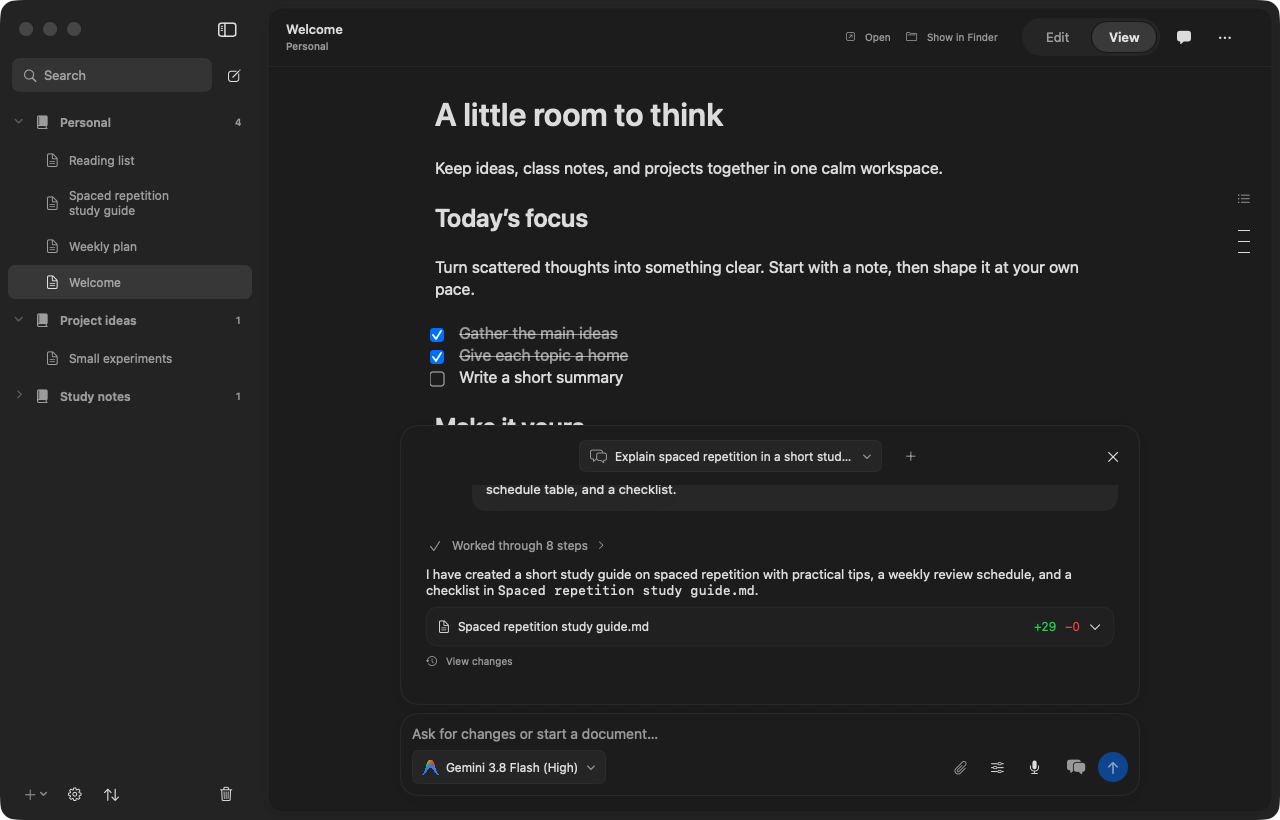
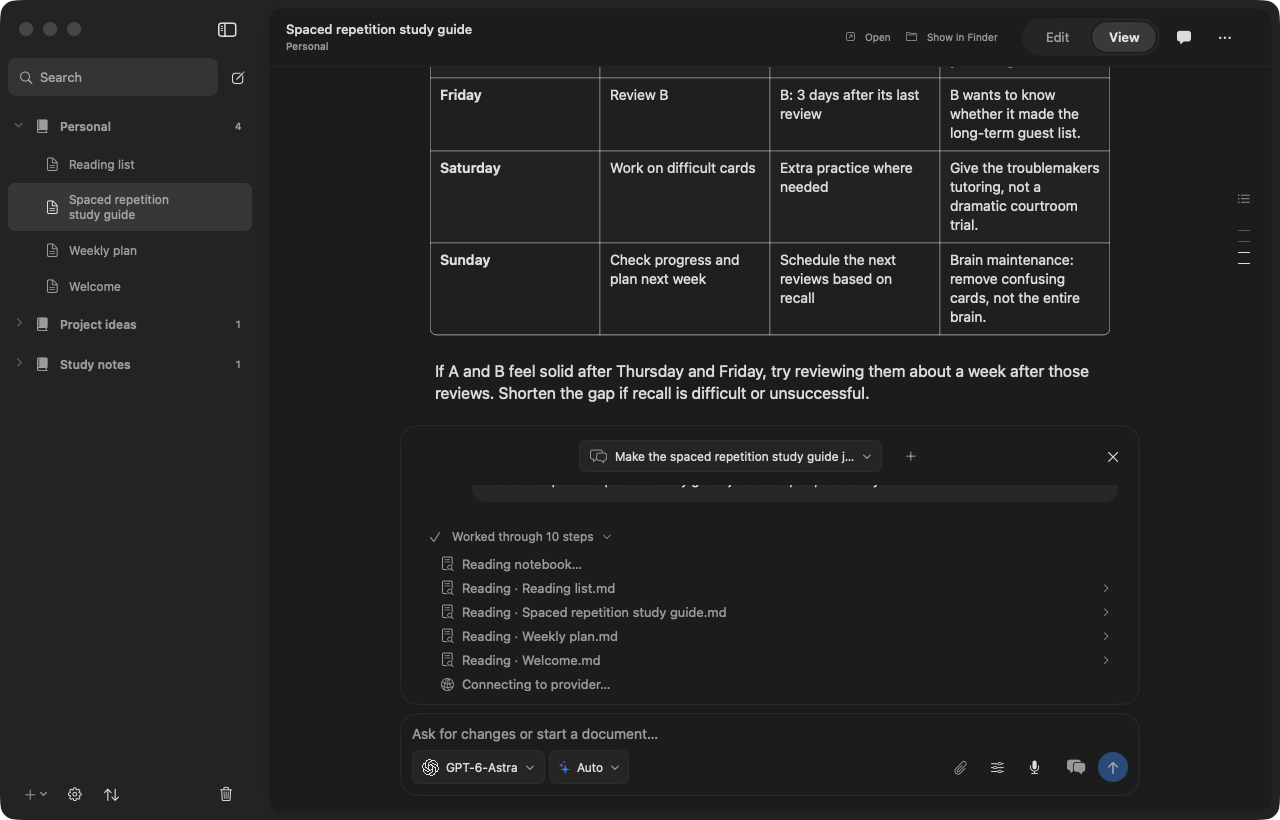
Tighten compact sidebar spacing and refresh README screenshot

diff --git a/Sources/Notes/WorkspaceView.swift b/Sources/Notes/WorkspaceView.swift
@@ -50,7 +50,6 @@ struct WorkbenchView: View {
 
             }
             library
-                .padding(.horizontal, chrome.compact ? 4 : 0)
                 .frame(width: sidebarWidth)
                 .frame(maxHeight: .infinity)
                 .background { if chrome.compact { NotebookThemeBackground() } }
@@ -273,7 +272,7 @@ struct CourseSidebar: View {
     @AppStorage("notes.accent") private var accent = ""
     var body: some View {
         VStack(spacing: 0) {
-            HStack(spacing: 8) {
+            HStack(spacing: 6) {
                 HStack(spacing: 6) {
                     Image(systemName: "magnifyingglass").foregroundStyle(.secondary)
                     TextField("Buscar", text: $query).textFieldStyle(.plain).accessibilityLabel("Filtrar archivos")
@@ -281,12 +280,12 @@ struct CourseSidebar: View {
                         Button { query = "" } label: { Image(systemName: "xmark.circle.fill") }
                             .buttonStyle(.plain).modifier(ControlHoverBackground()).help("Limpiar búsqueda")
                     }
-                }.padding(.horizontal, 11).frame(height: 34)
+                }.padding(.horizontal, 11).frame(height: 38)
                     .modifier(SidebarSearchGlass())
                 Button { model.creationInitialName = ""; model.creationKind = "nota" } label: {
-                    Image(systemName: "square.and.pencil").frame(width: 28, height: 34)
+                    Image(systemName: "square.and.pencil").frame(width: 28, height: 38)
                 }.buttonStyle(.plain).modifier(ControlHoverBackground()).help("Nueva nota · ⌘N").accessibilityLabel("Nueva nota")
-            }.padding(.horizontal, 12)
+            }.padding(.horizontal, 8)
             ScrollViewReader { proxy in
             List(selection: Binding<NotebookSidebarSelection?>(get: {
                 model.librarySelection

diff --git a/Sources/Notes/CompactChrome.swift b/Sources/Notes/CompactChrome.swift
@@ -3,7 +3,7 @@ import SwiftUI
 
 enum CompactLayout {
     static let sidebarWidth: CGFloat = 260
-    static let horizontalInset: CGFloat = 16
+    static let horizontalInset: CGFloat = 8
     static let verticalInset = horizontalInset
     static let sidebarRadius: CGFloat = 12
     static let rowRadius: CGFloat = 6

diff --git a/README.md b/README.md
@@ -2,7 +2,7 @@
 
 Palladium is a native macOS notebook app for Markdown notes, AI-assisted editing, and chat dictation. It brings your documents and conversations into a calm workspace, whether you’re studying, collecting ideas, or working through a project.
 
-![Palladium showing a sample notebook, a Markdown checklist, and an assistant chat with a study-guide document](docs/images/palladium.png)
+![Palladium showing a study-guide table, notebook navigation, and an assistant chat with its activity log](docs/images/palladium.png)
 
 - **Notebooks and Markdown.** Organize notes into notebooks and folders. Write and read formatted Markdown with tables, checklists, and math, backed by autosave and undo.
 - **Notebook chats.** Work with an assistant that can use your notebook’s context, suggest changes, and help edit documents. Attach images, PDFs, or text files when a conversation needs them.
